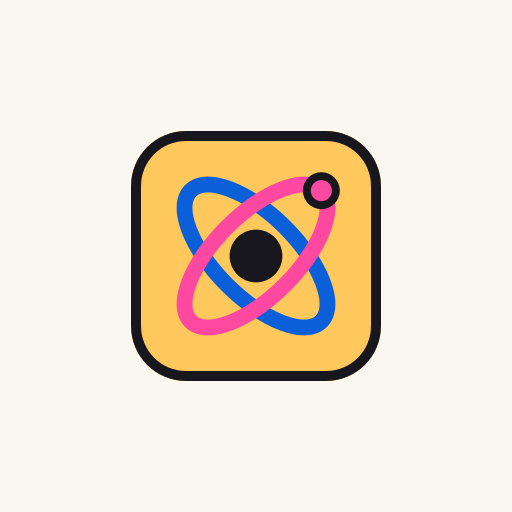
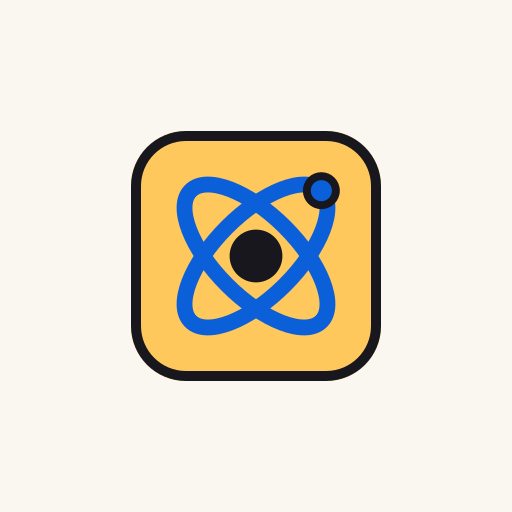
fix: the rupee sign was live as "a?1,00,000" — my mojibake, undone; and the mark drops its pink
THE TEXT. I broke this, in the commits that swapped the images and the palette.
PowerShell 5.1's Get-Content -Raw decodes with the ANSI codepage unless told
otherwise, so reading a UTF-8 file and writing it back froze every multi-byte
character as two or three Latin-ish ones. Live on the prize board:

  the rupee sign became a-with-circumflex + euro + rupee
  Class 6-12 (en dash) became 6 + a-with-circumflex + euro + quote + 12
  every up-right arrow, the infinity in the stats row, the copyright, the
  curly quotes in "I can explain it.", the back arrow on four pages

Undone run by run, not file by file, and that distinction is the whole repair:
the files are MIXED — comments added later were written correctly, so their
em-dashes are real UTF-8 — and a whole-file re-decode would have broken the
good characters to fix the bad. The first attempt refused to run for exactly
that reason rather than guessing.

Two rounds were needed because CP1252 is not Latin-1 in two ways I got wrong.
Its 0x80-0x9F carries typographic characters, so a plain latin1 round trip
cannot fix this; and it leaves five slots UNDEFINED (0x81, 0x8D, 0x8F, 0x90,
0x9D), which a decoder passes through as C1 controls. 0x9D is the third byte
of a closing curly quote, so those survived the first pass untouched. Zero
mojibake left anywhere in landing/, verified in a running build.

THE MARK. Both orbits are the blue plate now. The second was fluoro pink,
[…]

Changed region(s): [[0.3438, 0.3438, 0.6562, 0.6562]]

diff --git a/landing/app/page.tsx b/landing/app/page.tsx
@@ -11,7 +11,7 @@ const subjects = [
   ['English & Social Science', 'Build confidence with stories, concepts, and conversations that stick.', 'humanities'],
 ]
 
-function Arrow() { return <span aria-hidden="true">â†—</span> }
+function Arrow() { return <span aria-hidden="true">↗</span> }
 
 export default function Page() {
   const [menuOpen, setMenuOpen] = useState(false)
@@ -23,26 +23,26 @@ export default function Page() {
           <a className="logo" href="#top" aria-label="Curie home"><img {...imgProps(ART.logo, 'Curie logo', true)} /><span>curie</span></a>
           <button className="menu-button" onClick={() => setMenuOpen(!menuOpen)} aria-expanded={menuOpen} aria-label="Toggle menu">Menu <span>+</span></button>
           <div className={`nav-links ${menuOpen ? 'is-open' : ''}`}><a href="#how">How it works</a><a href="#subjects">Subjects</a><a href="#events">Events</a><a href="#why">Why Curie</a></div>
-          {/* `href="#login"` â€” there is no element with id="login" on this page,
+          {/* `href="#login"` — there is no element with id="login" on this page,
               so both of these were buttons that scrolled nowhere. They go to the
               app, which is what a person clicking "Log in" is asking for. */}
           <div className="nav-actions"><a href={APP_URL}>Log in</a><a className="pill dark-pill" href="#start">Try Curie <Arrow /></a></div>
         </nav>
         <div className="hero-content shell" id="top">
-          <div className="hero-copy"><p className="eyebrow">Your personal AI tutor, live with you</p><h1>Learning that<br /><em>learns you.</em></h1><p className="hero-desc">Curie is a one-on-one live AI tutor for students in classes 6â€“12. It listens, adapts, and explains every concept at your pace.</p><a className="pill outline-pill" href="#start">Meet your tutor <Arrow /></a></div>
+          <div className="hero-copy"><p className="eyebrow">Your personal AI tutor, live with you</p><h1>Learning that<br /><em>learns you.</em></h1><p className="hero-desc">Curie is a one-on-one live AI tutor for students in classes 6–12. It listens, adapts, and explains every concept at your pace.</p><a className="pill outline-pill" href="#start">Meet your tutor <Arrow /></a></div>
           <div className="hero-art"><img {...imgProps(ART.hero, 'Student learning at a desk in a live online classroom', true)} /></div>
         </div><div className="hero-note">Every student learns<br />a little differently.</div>
       </section>
 
-      <section className="stats shell"><div><strong>1:1</strong><span>Personal tutor</span></div><div><strong>24/7</strong><span>Learn on your time</span></div><div><strong>6â€“12</strong><span>School classes</span></div><div><strong>âˆž</strong><span>Questions welcome</span></div></section>
+      <section className="stats shell"><div><strong>1:1</strong><span>Personal tutor</span></div><div><strong>24/7</strong><span>Learn on your time</span></div><div><strong>6–12</strong><span>School classes</span></div><div><strong>∞</strong><span>Questions welcome</span></div></section>
 
-      <section className="event-section" id="events"><div className="shell event-shell"><div className="event-copy"><p className="event-kicker"><span className="live-dot" /> Live challenge</p><h2>Think fast.<br /><em>Learn big.</em></h2><p>Curie&apos;s first all-India learning sprint is here. Show what you know, sharpen your thinking, and climb the leaderboard.</p><div className="event-details"><span>Classes 6â€“12</span><span>Online</span><span>Limited entries</span></div><a className="pill event-pill" href="/challenge-register">Join the challenge <Arrow /></a></div><div className="prize-board"><div className="prize-head"><span>Curie champion league</span><strong>â‚¹1,00,000+</strong><small>Total prize pool</small></div><div className="prize-list"><article className="prize-card first"><span className="rank">01</span><img {...imgProps(ART.prizeCash, 'Cash prize trophy')} /><div><b>â‚¹1,00,000</b><small>First position</small></div><span className="prize-spark">â˜…</span></article><article className="prize-card second"><span className="rank">02</span><img {...imgProps(ART.prizeConsole, 'Gaming console prize')} /><div><b>PlayStation</b><small>Second position</small></div><span className="prize-spark">â—†</span></article><article className="prize-card third"><span className="rank">03</span><img {...imgProps(ART.prizePhone, 'Blue smartphone prize')} /><div><b>Moto Edge 50</b><small>Third position</small></div><span className="prize-spark">âœ¦</span></article><article className="prize-card small-prize"><span className="rank">04</span><div><b>Surprise prize</b><small>Fourth position</small></div></article><article className="prize-card small-prize"><span className="rank">05</span><div><b>Surprise prize</b><small>Fifth position</small></div></article></div><p className="event-footnote">Five ranks. One unforgettable finish.</p></div></div></section>
+      <section className="event-section" id="events"><div className="shell event-shell"><div className="event-copy"><p className="event-kicker"><span className="live-dot" /> Live challenge</p><h2>Think fast.<br /><em>Learn big.</em></h2><p>Curie&apos;s first all-India learning sprint is here. Show what you know, sharpen your thinking, and climb the leaderboard.</p><div className="event-details"><span>Classes 6–12</span><span>Online</span><span>Limited entries</span></div><a className="pill event-pill" href="/challenge-register">Join the challenge <Arrow /></a></div><div className="prize-board"><div className="prize-head"><span>Curie champion league</span><strong>₹1,00,000+</strong><small>Total prize pool</small></div><div className="prize-list"><article className="prize-card first"><span className="rank">01</span><img {...imgProps(ART.prizeCash, 'Cash prize trophy')} /><div><b>₹1,00,000</b><small>First position</small></div><span className="prize-spark">★</span></article><article className="prize-card second"><span className="rank">02</span><img {...imgProps(ART.prizeConsole, 'Gaming console prize')} /><div><b>PlayStation</b><small>Second position</small></div><span className="prize-spark">◆</span></article><article className="prize-card third"><span className="rank">03</span><img {...imgProps(ART.prizePhone, 'Blue smartphone prize')} /><div><b>Moto Edge 50</b><small>Third position</small></div><span className="prize-spark">✦</span></article><article className="prize-card small-prize"><span className="rank">04</span><div><b>Surprise prize</b><small>Fourth position</small></div></article><article className="prize-card small-prize"><span className="rank">05</span><div><b>Surprise prize</b><small>Fifth position</small></div></article></div><p className="event-footnote">Five ranks. One unforgettable finish.</p></div></div></section>
 
       <section className="intro shell" id="how"><div className="intro-art"><img {...imgProps(ART.desk, 'Student using a computer for a personalized live class')} /></div><div className="section-copy"><p className="eyebrow">Not another video library</p><h2>A tutor who <em>meets you</em> where you are.</h2><p>Curie notices what you know, where you get stuck, and how you learn best. Then it changes the lesson in real time so every session feels made for you.</p><a className="text-link" href="#why">See how Curie adapts <Arrow /></a></div></section>
 
       <section className="why" id="why"><div className="shell"><div className="why-head"><div><p className="eyebrow">The Curie difference</p><h2>More than answers.<br /><em>Real understanding.</em></h2></div><p>Ask anything without fear of being judged. Get hints when you need them, challenge when you are ready, and build the confidence to solve the next one yourself.</p></div><div className="feature-grid"><article className="feature"><span className="icon"><BrainCircuit aria-hidden="true" /></span><h3>Adaptive by design</h3><p>Curie adjusts pace, difficulty, examples, and explanations around your learning curve.</p></article><article className="feature"><span className="icon"><MessageCircle aria-hidden="true" /></span><h3>Live one-on-one</h3><p>A focused conversation, not a crowded classroom or a prerecorded lecture.</p></article><article className="feature"><span className="icon"><Lightbulb aria-hidden="true" /></span><h3>Always patient</h3><p>Ask the same question five ways. Curie will find a sixth way to explain it.</p></article><article className="feature"><span className="icon"><TrendingUp aria-hidden="true" /></span><h3>Progress you can see</h3><p>Know what is clicking, what needs practice, and what to learn next.</p></article></div></div></section>
 
-      <section className="courses" id="subjects"><div className="shell"><div className="courses-heading"><p className="eyebrow">Your syllabus, your way</p><h2>Every subject.<br /><em>One curious mind.</em></h2><p>Curie helps you move from â€œI don&apos;t get itâ€ to â€œI can explain it.â€</p></div><div className="course-grid">{subjects.map(([title, desc, key], i) => <article className="course-card" key={key}><div className={`course-image image-${i}`}><img {...imgProps([ART.learner, ART.focus, ART.teacher][i], `${title} learning illustration`)} /></div><div className="course-meta"><span><BookOpen aria-hidden="true" /> Class 6â€“12</span><span><Sparkles aria-hidden="true" /> Live with Curie</span></div><h3>{title}</h3><p>{desc}</p><a className="mini-link" href="#start">Explore subject <Arrow /></a></article>)}</div></div></section>
+      <section className="courses" id="subjects"><div className="shell"><div className="courses-heading"><p className="eyebrow">Your syllabus, your way</p><h2>Every subject.<br /><em>One curious mind.</em></h2><p>Curie helps you move from “I don&apos;t get it” to “I can explain it.”</p></div><div className="course-grid">{subjects.map(([title, desc, key], i) => <article className="course-card" key={key}><div className={`course-image image-${i}`}><img {...imgProps([ART.learner, ART.focus, ART.teacher][i], `${title} learning illustration`)} /></div><div className="course-meta"><span><BookOpen aria-hidden="true" /> Class 6–12</span><span><Sparkles aria-hidden="true" /> Live with Curie</span></div><h3>{title}</h3><p>{desc}</p><a className="mini-link" href="#start">Explore subject <Arrow /></a></article>)}</div></div></section>
 
       <section className="steps shell"><div className="section-copy"><p className="eyebrow">A better learning loop</p><h2>Learn at your <em>own pace.</em></h2><p>Start with a question. Curie builds the path around your answer, then keeps refining it as you grow.</p><ul><li><b>01</b> Tell Curie what you are learning</li><li><b>02</b> Learn through a live conversation</li><li><b>03</b> Practice until it feels yours</li></ul></div><div className="steps-art"><img {...imgProps(ART.hand, 'Hand holding a phone showing a personalized online lesson')} /></div></section>
 
@@ -50,7 +50,7 @@ export default function Page() {
 
       <section className="app-promo"><div className="shell"><p className="eyebrow">Learning, wherever you are</p><h2>Your next <em>breakthrough</em><br />can start anywhere.</h2><p>Keep your tutor, questions, and progress close with Curie.</p><div className="store-buttons"><a className="play-store-button" href="/mobile-coming-soon"><img src="/art/googleplay.svg" alt="Google Play" width="24" height="24" loading="lazy" decoding="async" /><span>GET IT ON<br /><b>Google Play</b></span></a></div></div></section>
 
-      <footer><div className="shell footer-grid"><div><a className="logo footer-logo" href="#top"><img {...imgProps(ART.logoLight, 'Curie light logo')} /><span>curie</span></a><p>Your one-on-one AI tutor<br />for classes 6â€“12.</p></div><div><b>Learn</b><a href="/subjects">Subjects</a><a href="/how-it-works">How it works</a><a href="/why-curie">Why Curie</a></div><div><b>For families</b><a href="/students">For students</a><a href="/parents">For parents</a><a href="/contact">Contact us</a></div>{/*
+      <footer><div className="shell footer-grid"><div><a className="logo footer-logo" href="#top"><img {...imgProps(ART.logoLight, 'Curie light logo')} /><span>curie</span></a><p>Your one-on-one AI tutor<br />for classes 6–12.</p></div><div><b>Learn</b><a href="/subjects">Subjects</a><a href="/how-it-works">How it works</a><a href="/why-curie">Why Curie</a></div><div><b>For families</b><a href="/students">For students</a><a href="/parents">For parents</a><a href="/contact">Contact us</a></div>{/*
             THIS WAS A NEWSLETTER BOX THAT KEPT NOTHING.
             `onSubmit` was `if (email) setJoined(true)` and the page then said
             "You're on the list." There is no list: the address was never sent
@@ -59,7 +59,7 @@ export default function Page() {
             points at the one door on this site that does save what it is
             given. Restore a real box the day there is somewhere to put it.
           */}
-          <div><b>Stay curious</b><p>Entries for the Champion League are open now.</p><a className="mini-link" href="/challenge-register">Join the challenge <Arrow /></a></div></div><div className="footer-bottom shell"><span>Â© 2026 Curie Learning Co.</span><span>Learning, made personal.</span></div></footer>
+          <div><b>Stay curious</b><p>Entries for the Champion League are open now.</p><a className="mini-link" href="/challenge-register">Join the challenge <Arrow /></a></div></div><div className="footer-bottom shell"><span>© 2026 Curie Learning Co.</span><span>Learning, made personal.</span></div></footer>
     </main>
   )
 }

diff --git a/landing/app/[slug]/page.tsx b/landing/app/[slug]/page.tsx
@@ -14,12 +14,12 @@ const illustrations = {
 const pageIcons = [BookOpen, BrainCircuit, Sparkles]
 
 const pages: Record<string, { label: string; title: string; accent: string; body: string; points: string[] }> = {
-  subjects: { label: 'Explore the curriculum', title: 'Every question has a place to start.', accent: 'Subjects that move with you.', body: 'Curie makes Class 6â€“12 Mathematics, Science, English, and Social Science feel less like chapters and more like conversations.', points: ['Mathematics, from foundations to problem-solving', 'Science explained with visual intuition and real examples', 'English and Social Science through stories and context'] },
+  subjects: { label: 'Explore the curriculum', title: 'Every question has a place to start.', accent: 'Subjects that move with you.', body: 'Curie makes Class 6–12 Mathematics, Science, English, and Social Science feel less like chapters and more like conversations.', points: ['Mathematics, from foundations to problem-solving', 'Science explained with visual intuition and real examples', 'English and Social Science through stories and context'] },
   'how-it-works': { label: 'The Curie learning loop', title: 'A tutor that adapts in real time.', accent: 'Learning built around you.', body: 'Tell Curie what you are working on. It listens to your answer, finds the right next step, and keeps the session moving at exactly your pace.', points: ['Start with a question, goal, or tricky concept', 'Learn through a live one-on-one conversation', 'Practice, reflect, and see your progress grow'] },
   'why-curie': { label: 'The Curie difference', title: 'Less pressure. More progress.', accent: 'Understanding over memorising.', body: 'Curie gives every learner a patient space to think out loud, make mistakes, and build the confidence to solve the next problem alone.', points: ['Personalised explanations instead of one-size-fits-all videos', 'Unlimited questions without judgement', 'Progress insights for students and parents'] },
   students: { label: 'For students', title: 'Your questions belong here.', accent: 'Learn without holding back.', body: 'Whether you are revising for tomorrow or trying to finally understand a concept, Curie meets you where you are and helps you take the next step.', points: ['Ask in your own words', 'Choose your pace and level of challenge', 'Turn confusion into confidence'] },
   parents: { label: 'For parents', title: 'See learning become a habit.', accent: 'Support that grows with them.', body: 'Curie gives students independent support while keeping families close to the learning journey with clear, useful progress signals.', points: ['A safe, focused learning environment', 'Practice that follows their actual gaps', 'A clearer view of strengths and next steps'] },
-  contact: { label: 'We would love to hear from you', title: 'Letâ€™s make learning more personal.', accent: 'Talk to the Curie team.', body: 'Have a question about Curie for your student, school, or family? Send us a note and we will get back to you.', points: ['hello@curie.study', 'Mondayâ€“Friday, 9amâ€“6pm', 'Questions, partnerships, and feedback welcome'] },
+  contact: { label: 'We would love to hear from you', title: 'Let’s make learning more personal.', accent: 'Talk to the Curie team.', body: 'Have a question about Curie for your student, school, or family? Send us a note and we will get back to you.', points: ['hello@curie.study', 'Monday–Friday, 9am–6pm', 'Questions, partnerships, and feedback welcome'] },
 }
 
 /**
@@ -27,8 +27,8 @@ const pages: Record<string, { label: string; title: string; accent: string; body
  *
  * This read `pages[slug] ?? pages['why-curie']`, which looks like a kind
  * default and was doing real harm: /privacy and /terms have no page of their
- * own, so the consent checkbox on the registration form â€” the required one,
- * that says "I agree to Curie's Privacy Policy" â€” linked to a page that
+ * own, so the consent checkbox on the registration form — the required one,
+ * that says "I agree to Curie's Privacy Policy" — linked to a page that
  * silently served "The Curie difference" under a marketing headline. Verified
  * live: both URLs returned 200 with the title "Less pressure. More progress."
  *
@@ -40,7 +40,7 @@ export default async function RelatedPage({ params }: { params: Promise<{ slug: 
   const { slug } = await params
   const page = pages[slug]
   if (!page) notFound()
-  return <main className="subpage"><nav className="nav shell"><Link className="logo" href="/" aria-label="Curie home"><img {...imgProps(ART.logo, 'Curie logo', true)} /><span>curie</span></Link><div className="nav-links is-open"><Link href="/how-it-works">How it works</Link><Link href="/subjects">Subjects</Link><Link href="/why-curie">Why Curie</Link></div><div className="nav-actions"><Link className="back-home" href="/">â† Back home</Link><Link className="pill dark-pill" href="/#start">Try Curie â†—</Link></div></nav><section className="subpage-hero shell"><div><p className="eyebrow">{page.label}</p><h1>{page.title}<br /><em>{page.accent}</em></h1><p className="hero-desc">{page.body}</p><Link className="pill dark-pill" href="/#start">Start learning free â†—</Link></div><div className="subpage-visual"><img {...imgProps(illustrations[slug as keyof typeof illustrations] ?? illustrations['why-curie'], 'Curie learning illustration', true)} /><div className="subpage-note"><span>Curie</span><strong>1:1</strong><p>A personal learning space for every student in classes 6â€“12.</p></div></div></section><section className="subpage-content shell"><h2>Made for the way <em>you learn.</em></h2><div className="subpage-points">{page.points.map((point, index) => { const Icon = pageIcons[index % pageIcons.length]; return <article key={point}><span><Icon aria-hidden="true" /></span><p>{point}</p></article> })}</div><Link className="text-link" href="/">Back to Curie home â†—</Link></section><footer><div className="shell footer-bottom"><span>Â© 2026 Curie Learning Co.</span><Link href="/">Learning, made personal.</Link></div></footer></main>
+  return <main className="subpage"><nav className="nav shell"><Link className="logo" href="/" aria-label="Curie home"><img {...imgProps(ART.logo, 'Curie logo', true)} /><span>curie</span></Link><div className="nav-links is-open"><Link href="/how-it-works">How it works</Link><Link href="/subjects">Subjects</Link><Link href="/why-curie">Why Curie</Link></div><div className="nav-actions"><Link className="back-home" href="/">← Back home</Link><Link className="pill dark-pill" href="/#start">Try Curie ↗</Link></div></nav><section className="subpage-hero shell"><div><p className="eyebrow">{page.label}</p><h1>{page.title}<br /><em>{page.accent}</em></h1><p className="hero-desc">{page.body}</p><Link className="pill dark-pill" href="/#start">Start learning free ↗</Link></div><div className="subpage-visual"><img {...imgProps(illustrations[slug as keyof typeof illustrations] ?? illustrations['why-curie'], 'Curie learning illustration', true)} /><div className="subpage-note"><span>Curie</span><strong>1:1</strong><p>A personal learning space for every student in classes 6–12.</p></div></div></section><section className="subpage-content shell"><h2>Made for the way <em>you learn.</em></h2><div className="subpage-points">{page.points.map((point, index) => { const Icon = pageIcons[index % pageIcons.length]; return <article key={point}><span><Icon aria-hidden="true" /></span><p>{point}</p></article> })}</div><Link className="text-link" href="/">Back to Curie home ↗</Link></section><footer><div className="shell footer-bottom"><span>© 2026 Curie Learning Co.</span><Link href="/">Learning, made personal.</Link></div></footer></main>
 }
 
 export function generateStaticParams() { return Object.keys(pages).map((slug) => ({ slug })) }

diff --git a/apps/classroom/src/ui/Logo.tsx b/apps/classroom/src/ui/Logo.tsx
@@ -16,16 +16,19 @@ import { BRAND } from '../brand';
  * rounded square without nudging. Stroke weight is tuned so the orbits still
  * read as two distinct rings at 24px.
  *
- * RISO POP redrew the inks, not the geometry: each orbit is one riso PLATE —
- * the pressable blue and the fluoro pink — overprinted the way a two-colour
- * riso poster actually prints, the nucleus in ink and the electron riding its
- * orbit's fluoro plate (in the icon files, where it sits on amber, the
- * electron gains an ink keyline it does not need in-app). Every
- * colour arrives through a token class and `currentColor`, never a literal
- * hex, so the mark re-pitches itself in the dark room with the rest of the
- * palette (the blue plate lightens, the ink flips to paper) — and it picked up
- * the move from #FFD21E to the marketing site's #FFC85C without a line
- * changing here, which is what the tokens are for. The amber tile and its
+ * RISO POP redrew the inks, not the geometry. Both orbits are the BLUE plate
+ * now: the second one was the fluoro pink, which made pink half the mark and
+ * therefore half the brand, against the palette's own first law that fluoro is
+ * a ground and never the thing you read. The two primaries are the amber and
+ * the blue, so the mark is the blue on the amber and nothing else. The nucleus
+ * stays ink; the electron rides its orbit's plate (in the icon files, where it
+ * sits on amber, it gains an ink keyline it does not need in-app).
+ *
+ * Every colour arrives through a token class and `currentColor`, never a
+ * literal hex, so the mark re-pitches itself in the dark room with the rest of
+ * the palette (the blue plate lightens, the ink flips to paper) — and it
+ * picked up the move from #FFD21E to the marketing site's #FFC85C without a
+ * line changing here, which is what the tokens are for. The amber tile and its
  * keyline belong to content/icon.svg — in the app the mark sits straight on
  * whatever surface the screen already has.
  */
@@ -48,28 +51,22 @@ export function Logo({
       focusable="false"
     >
       <g transform="translate(16 16)">
-        <g fill="none" strokeWidth="2.4">
-          <ellipse rx="14" ry="6.2" transform="rotate(45)" stroke="currentColor" />
-          {/* primary-container IS the fluoro plate — a ground colour, which a
-              stroked orbit is: nothing ever has to be read off it. */}
-          <ellipse
-            rx="14"
-            ry="6.2"
-            transform="rotate(-45)"
-            className="text-primary-container"
-            stroke="currentColor"
-          />
+        {/* BOTH ORBITS ON THE BLUE PLATE. The second one used to be
+            primary-container, the fluoro pink — which made pink half the
+            mark, and therefore half the brand, while the palette's own first
+            law says fluoro is a GROUND and never the thing you read. The two
+            primaries are the amber and this blue; the mark says so now.
+            They are the SAME blue on purpose: the ellipses are rotated ±45°,
+            so the silhouette still reads as two crossed orbits without a
+            second hue doing the work. */}
+        <g fill="none" strokeWidth="2.4" stroke="currentColor">
+          <ellipse rx="14" ry="6.2" transform="rotate(45)" />
+          <ellipse rx="14" ry="6.2" transform="rotate(-45)" />
         </g>
         <circle r="4" className="text-on-background" fill="currentColor" />
         {/* Sits exactly on the far end of the rotate(-45) orbit's major axis,
-            and wears that orbit's plate. */}
-        <circle
-          cx="9.9"
-          cy="-9.9"
-          r="2.2"
-          className="text-primary-container"
-          fill="currentColor"
-        />
+            and wears that orbit's plate — which is now the blue one. */}
+        <circle cx="9.9" cy="-9.9" r="2.2" fill="currentColor" />
       </g>
     </svg>
   );

diff --git a/landing/app/challenge-register/page.tsx b/landing/app/challenge-register/page.tsx
@@ -11,8 +11,8 @@ import { ART, imgProps } from '@/lib/art'
  * FOUR STATES, BECAUSE THERE ARE FOUR THINGS THAT CAN BE TRUE.
  *
  * This page used to have two: a boolean that went true on submit and rendered
- * "Your details are saved for this challenge." It saved nothing â€” the handler
- * called setSubmitted(true) and stopped â€” so every entry in a â‚¹1,00,000
+ * "Your details are saved for this challenge." It saved nothing — the handler
+ * called setSubmitted(true) and stopped — so every entry in a ₹1,00,000
  * contest was destroyed on refresh while the parent was told it was kept.
  *
  * "saving" and "failed" are the two that were missing, and "failed" is the one
@@ -57,7 +57,7 @@ export default function ChallengeRegisterPage() {
     } catch {
       setState({
         at: 'failed',
-        message: 'We could not reach Curie. Nothing was saved â€” please check your connection.',
+        message: 'We could not reach Curie. Nothing was saved — please check your connection.',
       })
     }
   }
@@ -71,7 +71,7 @@ export default function ChallengeRegisterPage() {
           <img {...imgProps(ART.logo, 'Curie logo', true)} />
           <span>curie</span>
         </Link>
-        <Link className="back-home" href="/">â† Back home</Link>
+        <Link className="back-home" href="/">← Back home</Link>
       </nav>
       <section className="register-shell shell">
         <div className="register-intro">
@@ -82,7 +82,7 @@ export default function ChallengeRegisterPage() {
             <img {...imgProps(ART.hand, 'Student learning on a mobile device', true)} />
           </div>
           <div className="register-highlight">
-            <strong>â‚¹1,00,000+</strong>
+            <strong>₹1,00,000+</strong>
             <span>in prizes for curious minds</span>
           </div>
         </div>
@@ -116,7 +116,7 @@ export default function ChallengeRegisterPage() {
                 <option value="12">12th</option>
               </select>
             </label>
-            {/* Controlled, and now carrying a name â€” without one it was never
+            {/* Controlled, and now carrying a name — without one it was never
                 part of the form data at all. */}
             <label>Do you take tuition elsewhere? *
               <select
@@ -144,11 +144,11 @@ export default function ChallengeRegisterPage() {
             <div className="success-box">
               <strong>You&apos;re registered.</strong>
               <span>Your details are saved for this challenge.</span>
-              <a className="pill dark-pill" href={APP_URL}>Continue to the test â†—</a>
+              <a className="pill dark-pill" href={APP_URL}>Continue to the test ↗</a>
             </div>
           ) : (
             <button className="pill dark-pill form-submit" type="submit" disabled={saving}>
-              {saving ? 'Savingâ€¦' : 'Save & continue to test â†—'}
+              {saving ? 'Saving…' : 'Save & continue to test ↗'}
             </button>
           )}
         </form>

diff --git a/landing/app/mobile-coming-soon/page.tsx b/landing/app/mobile-coming-soon/page.tsx
@@ -2,7 +2,7 @@
 import { ART, imgProps } from '@/lib/art'
 
 export const metadata = {
-  title: 'Curie mobile app â€” Coming soon',
+  title: 'Curie mobile app — Coming soon',
   description: 'The Curie mobile app is coming soon. Continue learning with Curie in your browser.',
 }
 
@@ -14,14 +14,14 @@ export default function MobileComingSoonPage() {
           <img {...imgProps(ART.logo, 'Curie logo', true)} />
           <span>curie</span>
         </Link>
-        <Link className="back-home" href="/">â† Back home</Link>
+        <Link className="back-home" href="/">← Back home</Link>
       </nav>
       <section className="coming-soon-content shell">
         <div className="coming-soon-art"><img {...imgProps(ART.hand, 'Student learning with Curie on a mobile device', true)} /></div>
         <p className="eyebrow">Curie on the go</p>
         <h1>The mobile app is<br /><em>coming soon.</em></h1>
         <p>We&apos;re putting the finishing touches on your personal AI tutor for mobile. Until then, continue learning with Curie right in your browser.</p>
-        <Link className="pill dark-pill" href="/#start">Continue with web app â†—</Link>
+        <Link className="pill dark-pill" href="/#start">Continue with web app ↗</Link>
       </section>
     </main>
   )

diff --git a/apps/classroom/tests/brand.test.ts b/apps/classroom/tests/brand.test.ts
@@ -104,9 +104,18 @@ describe('the icons wear the riso inks on the shared geometry', () => {
         expect(svg).toContain('cx="9.9" cy="-9.9" r="2.2"');
       });
 
-      it('splits the orbits onto the two riso plates', () => {
+      /**
+       * BOTH ORBITS ARE THE BLUE PLATE, AND NO FLUORO IS IN THE MARK.
+       *
+       * This used to assert that #FF48A0 was present — it was pinning the pink
+       * INTO the logo. The brand is two primaries, amber and blue, and law 1
+       * says fluoro is a ground and never the thing you read; a mark that was
+       * half pink made pink half the brand. So the assertion is inverted: the
+       * blue is there, the fluoro is not.
+       */
+      it('draws both orbits on the blue plate, with no fluoro in the mark', () => {
         expect(svg).toContain('#0B5FD9');
-        expect(svg).toContain('#FF48A0');
+        expect(svg, 'fluoro pink is back in the mark').not.toContain('#FF48A0');
       });
 
       it('sits on the amber tile with an ink keyline — law 3', () => {

diff --git a/landing/lib/art.ts b/landing/lib/art.ts
@@ -23,8 +23,14 @@ export interface Art {
 const art = (name: string, w: number, h: number): Art => ({ src: `/art/${name}.webp`, w, h })
 
 export const ART = {
-  logo: art('logo', 128, 150),
-  logoLight: art('logo-light', 128, 192),
+  /**
+   * Aarav's mark, from docs/brand/curie-logo.png. `logoLight` is the SAME
+   * picture: the old pair had a separately lightened copy for the ink footer,
+   * and this one needs none — the amber carries 11.2:1 there. The name stays
+   * so no page has to change.
+   */
+  logo: art('logo', 256, 246),
+  logoLight: art('logo-light', 256, 246),
   hero: art('hero', 1000, 667),
   desk: art('desk', 900, 600),
   teacher: art('teacher', 900, 576),
